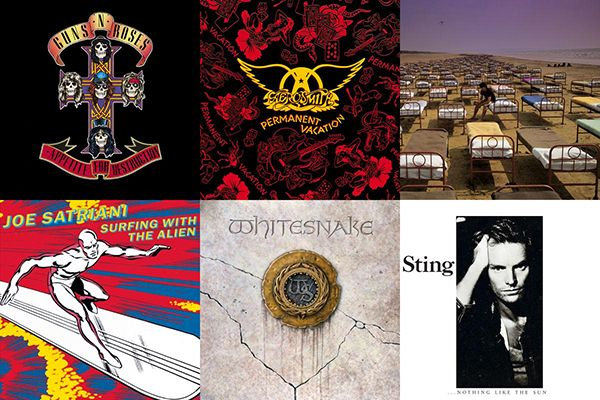
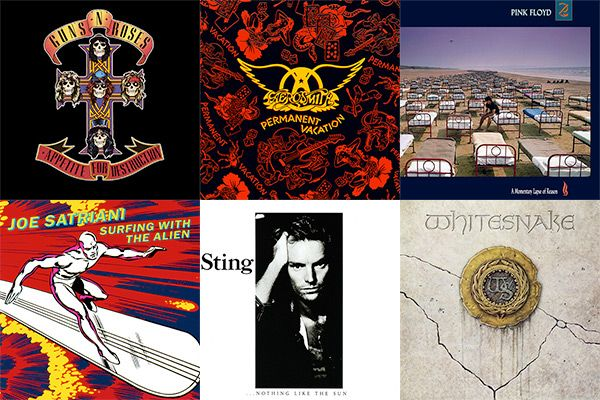
and now 1986

diff --git a/_site/clives-album-of-the-year-1986/index.html b/_site/clives-album-of-the-year-1986/index.html
@@ -176,9 +176,7 @@
 		<div class="post-content">
 
 <!-- BEGIN MARKDOWN OUTPUT -->
-<ol start="1986">
-<li>I was 12, and had yet to develop any taste in music, so as before this is all retroactive. This is also as far back as I’m going with the whole “1 winner and 5 runners-up” thing. My original idea was to try and go right back to the year of my birth, 1974, but I just can’t find enough music that I like from all of those years. What we’ll have after this is a digest format with the best one of the year, and possible an honourable mention or two. So now you know.</li>
-</ol>
+<p>1986. I was 12, and had yet to develop any taste in music, so as before this is all retroactive. This is also as far back as I’m going with the whole “1 winner and 5 runners-up” thing. My original idea was to try and go right back to the year of my birth, 1974, but I just can’t find enough music that I like from all of those years. What we’ll have after this is a digest format with the best one of the year, and possibly an honourable mention or two. So now you know.</p>
 <p>1986 was designated the International Year of Peace by the UN. Good-oh. <a href="https://en.m.wikipedia.org/wiki/Kodak">Kodak</a> were beaten out of the instant camera game by <a href="https://en.m.wikipedia.org/wiki/Polaroid_Corporation">Polaroid</a>, the <a href="https://en.m.wikipedia.org/wiki/Brain_(computer_virus)">first PC virus</a> started to spread, <a href="https://en.m.wikipedia.org/wiki/Voyager_2">Voyager 2</a> met Uranus (<em>snigger</em>), Space Shuttle Challenger <a href="https://en.m.wikipedia.org/wiki/Space_Shuttle_Challenger_disaster">tragically exploded</a> 73 seconds after launching, <a href="https://en.m.wikipedia.org/wiki/Pixar">Pixar</a>, <a href="https://en.m.wikipedia.org/wiki/Halley%27s_Comet">Halley’s Comet</a> popped by, <a href="https://en.m.wikipedia.org/wiki/Mir">Mir</a>, hailstones weighing 1kg killed 92 people in Bangladesh (yes, really), the <a href="https://en.m.wikipedia.org/wiki/Chernobyl_disaster">Chernobyl disaster</a> happened killing over 4000 people and forcing 350000 out of their homes, <a href="https://en.m.wikipedia.org/wiki/Hands_Across_America">Hands Across America</a>, <a href="https://en.m.wikipedia.org/wiki/Diego_Maradona">Maradona</a> and the “Hand of God”, New Zealand decriminalised homosexual sex (between men – lesbian sex was never criminalised in NZ), <a href="https://en.m.wikipedia.org/wiki/Prince_Andrew,_Duke_of_York">Andrew</a> married <a href="https://en.m.wikipedia.org/wiki/Sarah,_Duchess_of_York">Fergie</a>, <a href="https://en.m.wikipedia.org/wiki/The_Phantom_of_the_Opera_(1986_musical)">Phantom</a> opened in London, <a href="https://en.m.wikipedia.org/wiki/M25_motorway">the M25</a> was opened, <a href="https://en.m.wikipedia.org/wiki/The_Simpsons">The Simpsons</a> were created and the first commercial <a href="https://en.m.wikipedia.org/wiki/3D_printer">3D printer</a> was sold.</p>
 <p>Those cashing in their chips and going for a long lie down included <a href="https://en.m.wikipedia.org/wiki/Phil_Lynott">Phil Lynott</a>, <a href="https://en.m.wikipedia.org/wiki/L._Ron_Hubbard">the git behind scientology</a>, <a href="https://en.m.wikipedia.org/wiki/James_Cagney">Jimmy Cagney</a>, <a href="https://en.m.wikipedia.org/wiki/Wallis_Simpson">Wallis Simpson</a>, <a href="https://en.m.wikipedia.org/wiki/Cliff_Burton">Cliff Burton</a> and <a href="https://en.m.wikipedia.org/wiki/Cary_Grant">Cary Grant</a>.</p>
 <p>Arriving presumably not on a one-in-one-out basis were <a href="https://en.m.wikipedia.org/wiki/Matt_Heafy">Matt Heafy</a>, <a href="https://en.m.wikipedia.org/wiki/Jessica_Ennis-Hill">Jessica Ennis-Hill</a>, <a href="https://en.m.wikipedia.org/wiki/Gemma_Arterton">Gemma Arterton</a>, <a href="https://en.m.wikipedia.org/wiki/Ophelia_Lovibond">Ophelia Lovibond</a>, <a href="https://en.m.wikipedia.org/wiki/Charlotte_Church">Charlotte Church</a>, <a href="https://en.m.wikipedia.org/wiki/Lady_Gaga">Lady Gaga</a>, <a href="https://en.m.wikipedia.org/wiki/Robert_Pattinson">R-Patz</a>, <a href="https://en.m.wikipedia.org/wiki/Megan_Fox">Megan Fox</a>, <a href="https://en.m.wikipedia.org/wiki/Rafael_Nadal">Rafael Nadal</a>, <a href="https://en.m.wikipedia.org/wiki/Shia_LaBeouf">Shia LaBeouf</a>, <a href="https://en.m.wikipedia.org/wiki/Lindsay_Lohan">LiLo</a>, <a href="https://en.m.wikipedia.org/wiki/Usain_Bolt">Usain Bolt</a>, <a href="https://en.m.wikipedia.org/wiki/Florence_Welch">Florence Welch</a>, <a href="https://en.m.wikipedia.org/wiki/Emilia_Clarke">Emilia Clarke</a>, <a href="https://en.m.wikipedia.org/wiki/Oscar_Pistorius">Oscar Pistorius</a>, <a href="https://en.m.wikipedia.org/wiki/Amir_Khan_(boxer)">Amir Khan</a>, <a href="https://en.m.wikipedia.org/wiki/Kit_Harington">John Snow (Kit Harington)</a> and <a href="https://en.m.wikipedia.org/wiki/Ellie_Goulding">Ellie Goulding</a>. There were of course many more, but those are the ones I’ve heard of.</p>
@@ -186,15 +184,15 @@
 <p>Some notable omissions that didn’t make the list: <em>Bon Jovi</em> – <strong>Slippery When Wet</strong>, <em>Metallica</em> – <strong>Master of Puppets</strong>, <em>Iron Maiden</em> – <strong>Somewhere in Time</strong>, <em>It Bites</em> – <strong>The Big Lad in the Windmill</strong> and <em>Beastie Boys</em> – <strong>Licensed to Ill</strong>. Those are all good, but imho, these are better…</p>
 <h2 id="honourable-mentions" tabindex="-1">Honourable mentions</h2>
 <h3 id="megadeth---peace-sells%E2%80%A6-but-who%E2%80%99s-buying%3F" tabindex="-1"><a href="https://www.megadeth.com/">Megadeth</a> - <a href="https://www.amazon.co.uk/Peace-Sells-But-Whos-Buying/dp/B000002U9U/">Peace Sells… But Who’s Buying?</a></h3>
-<p>My metal awakening was still a few years away when this came out, but looking back it’s an absolute classic and a shortlist must-have. Worth the price of admission several times over for the title track alone, yet some may say “How can you include this and not <strong>Master of Puppets</strong>? Are you a mental?” The simple fact is I prefer <em>Megadeth</em> to <em>Metallica</em> – always have. I’ll give you that there are a couple of missteps on this album (WTF is “I Ain’t Superstitious” doing on here?) but when it’s good, it’s impeccable. <strong>Top track:</strong> “Peace Sells”</p>
+<p><img src="/public/images/2025/02/peace-sells.jpg" alt="Megadeth – Peace Sells… But Who’s Buying?" class="aoty aoty-mention"> My metal awakening was still a few years away when this came out, but looking back it’s an absolute classic and a shortlist must-have. Worth the price of admission several times over for the title track alone, yet some may say “How can you include this and not <strong>Master of Puppets</strong>? Are you a mental?” The simple fact is I prefer <em>Megadeth</em> to <em>Metallica</em> – always have. I’ll give you that there are a couple of missteps on this album (WTF is “I Ain’t Superstitious” doing on here?) but when it’s good, it’s impeccable. <strong>Top track:</strong> “Peace Sells”</p>
 <h3 id="queen---a-kind-of-magic" tabindex="-1"><a href="http://www.queenonline.com/">Queen</a> - <a href="https://www.amazon.co.uk/Kind-Magic-2011-Remaster/dp/B005HAPP58/">A Kind of Magic</a></h3>
-<p>I was even in the <em>Queen</em> fan club for a few years. At the time I had no idea what AIDS was, or what gay really was, and had no idea that Freddie was not that long for this world. I just loved their music, or at least what I had of it. It’s only recently I’ve gone back to the early proggy albums and discovered a whole bunch of weird, but then that was the 70s for you. This, the unofficial soundtrack to one of my favourite 80s films “Highlander”, has a couple of mawkish moments but again – when it’s good, it’s absolutely amazing. See “One Vision”, the title track, and the splendid “Gimme the Prize” for details. (I know his name.) <strong>Top track:</strong> “One Vision”</p>
+<p><img src="/public/images/2025/02/magic.jpg" alt="Queen – A Kind of Magic" class="aoty aoty-mention"> I was even in the <em>Queen</em> fan club for a few years. At the time I had no idea what AIDS was, or what gay really was, and had no idea that Freddie was not that long for this world. I just loved their music, or at least what I had of it. It’s only recently I’ve gone back to the early proggy albums and discovered a whole bunch of weird, but then that was the 70s for you. This, the unofficial soundtrack to one of my favourite 80s films “Highlander”, has a couple of mawkish moments but again – when it’s good, it’s absolutely amazing. See “One Vision”, the title track, and the splendid “Gimme the Prize” for details. (I know his name.) <strong>Top track:</strong> “One Vision”</p>
 <h3 id="david-lee-roth---eat-'em-and-smile" tabindex="-1"><a href="https://davidleeroth.com/">David Lee Roth</a> - <a href="https://www.amazon.co.uk/Eat-Smile-David-Lee-Roth/dp/B004X16Q8M/">Eat 'Em and Smile</a></h3>
-<p>When <em>DLR</em> quit <em>Van Halen</em>, the rock world must have wondered what the hell he – or they – were going to do next. Well, Diamond Dave recruited the hottest musicians available (Steve Vai, Billy Sheehan, Gregg Bissonette, Brett Tuggle) and punted out a solo album that combined Dave’s trademark lounge schtick with some of the most blistering virtuoso rock tunes ever made, still to this day. Indispensable, though hardly flawless. <strong>Top track:</strong> “Ladies’ Nite in Buffalo?”</p>
+<p><img src="/public/images/2025/02/dlr-eeas.jpg" alt="David Lee Roth – Eat 'Em and Smile" class="aoty aoty-mention"> When <em>DLR</em> quit <em>Van Halen</em>, the rock world must have wondered what the hell he – or they – were going to do next. Well, Diamond Dave recruited the hottest musicians available (Steve Vai, Billy Sheehan, Gregg Bissonette, Brett Tuggle) and punted out a solo album that combined Dave’s trademark lounge schtick with some of the most blistering virtuoso rock tunes ever made, still to this day. Indispensable, though hardly flawless. <strong>Top track:</strong> “Ladies’ Nite in Buffalo?”</p>
 <h3 id="paul-simon---graceland" tabindex="-1"><a href="http://www.paulsimon.com/">Paul Simon</a> - <a href="https://www.amazon.co.uk/Graceland-Paul-Simon/dp/B0085EDJTC/">Graceland</a></h3>
-<p>This was the first album I ever owned that wasn’t a kids album like Mr. Men or something. My late Grandma bought me the tape of it for Christmas or birthday, probably in 1987, and it went into my tape player and hardly came out for months. I still love it. Thanks, Grandma. <strong>Top track:</strong> “The Boy in the Bubble”</p>
+<p><img src="/public/images/2025/02/ps-g.jpg" alt="Paul Simon – Graceland" class="aoty aoty-mention"> This was the first album I ever owned that wasn’t a kids album like Mr. Men or something. My late Grandma bought me the tape of it for Christmas or birthday, probably in 1987, and it went into my tape player and hardly came out for months. I still love it. Thanks, Grandma. <strong>Top track:</strong> “The Boy in the Bubble”</p>
 <h3 id="van-halen---5150" tabindex="-1"><a href="http://www.van-halen.com/">Van Halen</a> - <a href="https://www.amazon.co.uk/5150-Van-Halen/dp/B002CNY2YS/">5150</a></h3>
-<p>So we know what Roth did when he quit <em>Van Halen</em>, but what did the rest of his erstwhile band do? They recruited a new singer and kept on trucking, that’s what. This was Sammy Hagar’s first album with VH and it was one of the first two rock/metal albums lent to me as part of my metal education by my best friend at the time, Nick Redfearn (the other was <strong>Eliminator</strong> by <em>ZZ Top</em>). Having never heard VH with Roth at the time, I was spared the inevitable comparisons and potential disappointment that a lead singer swap can engender, and loved it from the get go. Still do. (The following album <strong>OU812</strong> is a total crock, though.) <strong>Top track:</strong> “Good Enough”</p>
+<p><img src="/public/images/2025/02/5150.jpg" alt="Van Halen – 5150" class="aoty aoty-mention"> So we know what Roth did when he quit <em>Van Halen</em>, but what did the rest of his erstwhile band do? They recruited a new singer and kept on trucking, that’s what. This was Sammy Hagar’s first album with VH and it was one of the first two rock/metal albums lent to me as part of my metal education by my best friend at the time, Nick Redfearn (the other was <strong>Eliminator</strong> by <em>ZZ Top</em>). Having never heard VH with Roth at the time, I was spared the inevitable comparisons and potential disappointment that a lead singer swap can engender, and loved it from the get go. Still do. (The following album <strong>OU812</strong> is a total crock, though.) <strong>Top track:</strong> “Good Enough”</p>
 <h2 id="and-the-winner-is%E2%80%A6" tabindex="-1">And the winner is…</h2>
 <h3 id="peter-gabriel---so" tabindex="-1"><a href="http://www.petergabriel.com/">Peter Gabriel</a> - <a href="https://www.amazon.co.uk/So-Remastered-Peter-Gabriel/dp/B00RK6SDG0/">So</a></h3>
 <p><img src="/public/images/2017/11/MI0003431369.jpg" alt="Peter Gabriel - So" class="aoty aoty-winner"></p>
@@ -204,7 +202,7 @@
 <p><strong>Top tracks:</strong> “Mercy Street”, “Red Rain”, “Don’t Give Up”</p>
 <h2 id="turkey-of-the-year" tabindex="-1">Turkey of the year</h2>
 <h3 id="poison---look-what-the-cat-dragged-in" tabindex="-1"><a href="https://www.poisonofficial.com/">Poison</a> - <a href="https://www.amazon.co.uk/Look-What-Cat-Dragged-Anniversary/dp/B001ILT3SK">Look What the Cat Dragged In</a></h3>
-<p>Oh good god.</p>
+<p><img src="/public/images/2025/02/jesus-christ-look-at-those-arseholes.jpg" alt="Poison – Look What the Cat Dragged In" class="aoty aoty-mention aoty-turkey"> Oh good god.</p>
 
 <!-- END MARKDOWN OUTPUT -->
 

diff --git a/_site/clives-album-of-the-year-1987/index.html b/_site/clives-album-of-the-year-1987/index.html
@@ -184,29 +184,29 @@
 <p>Retroactively, then…</p>
 <h2 id="honourable-mentions" tabindex="-1">Honourable mentions</h2>
 <h3 id="aerosmith---permanent-vacation" tabindex="-1"><a href="http://www.aerosmith.com/">Aerosmith</a> - <a href="https://www.amazon.co.uk/Permanent-Vacation-Aerosmith/dp/B000026E3A/">Permanent Vacation</a></h3>
-<p>I am familiar with precisely none of <em>Aerosmith</em>’s pre-1987 work, a situation which if I’m honest is unlikely to change any time soon. There are a couple of tracks on this album I’m likely to skip, but the good ones are <strong>really</strong> good. <strong>Top track:</strong> “Dude (Looks Like a Lady)”</p>
+<p><img src="/public/images/2025/02/permvac.jpg" alt="Aerosmith – Permanent Vacation" class="aoty aoty-mention"> I am familiar with precisely none of <em>Aerosmith</em>’s pre-1987 work, a situation which if I’m honest is unlikely to change any time soon. There are a couple of tracks on this album I’m likely to skip, but the good ones are <strong>really</strong> good. <strong>Top track:</strong> “Dude (Looks Like a Lady)”</p>
 <h3 id="pink-floyd---a-momentary-lapse-of-reason" tabindex="-1"><a href="http://www.pinkfloyd.com/">Pink Floyd</a> - <a href="https://www.amazon.co.uk/Momentary-Lapse-Reason-Remastered-Version/dp/B005NNZJW8/">A Momentary Lapse of Reason</a></h3>
-<p>I know, right? I’ve never been the most rabid <em>Floyd</em> fan alive (though I did live with one for some time), but I’ve always had time and respect for them. In fairness I haven’t gone back and properly engaged with the Roger Waters era (except <strong>The Wall</strong> obviously – that’s a masterpiece) and I’ve <em>certainly</em> never even tried with the Syd Barrett era, so I’ve really only been a Gilmour guy. I wasn’t listening to <em>PF</em> in 1987, but have appreciated them greatly in later years, and this album while not one of their most essential is still very good. <strong>Top track:</strong> “Learning to Fly”</p>
+<p><img src="/public/images/2025/02/lapse.jpg" alt="Pink Floyd – A Momentary Lapse of Reason" class="aoty aoty-mention"> I know, right? I’ve never been the most rabid <em>Floyd</em> fan alive (though I did live with one for some time), but I’ve always had time and respect for them. In fairness I haven’t gone back and properly engaged with the Roger Waters era (except <strong>The Wall</strong> obviously – that’s a masterpiece) and I’ve <em>certainly</em> never even tried with the Syd Barrett era, so I’ve really only been a Gilmour guy. I wasn’t listening to <em>PF</em> in 1987, but have appreciated them greatly in later years, and this album while not one of their most essential is still very good. <strong>Top track:</strong> “Learning to Fly”</p>
 <h3 id="joe-satriani---surfing-with-the-alien" tabindex="-1"><a href="http://www.satriani.com/">Joe Satriani</a> - <a href="https://www.amazon.co.uk/Surfing-Alien-Joe-Satriani-x/dp/B000025N63/">Surfing With the Alien</a></h3>
-<p>In any other year, blah blah blah. But wow, it is hard to overstate the importance of this album to rock guitar. <em>Satriani</em> had self produced and released a weird home-grown EP in 1984 and then released his label debut <strong>Not of This Earth</strong> in 1986 to limited acclaim, but when <strong>Surfing</strong> came out in 1987 it changed the game completely. This took instrumental guitar out of the realms of “Apache” and “Telstar” and sent it soaring into the space age with its stellar technique, melodic sensibility, and finely honed production. Even moreso than hearing <em>Van Halen</em> for the first time, hearing this was what made me want to play real rock guitar. Thanks, Joe. <strong>Top track:</strong> “Circles”</p>
+<p><img src="/public/images/2025/02/surfing.jpg" alt="Joe Satriani – Surfing With the Alien" class="aoty aoty-mention"> In any other year, blah blah blah. But wow, it is hard to overstate the importance of this album to rock guitar. <em>Satriani</em> had self produced and released a weird home-grown EP in 1984 and then released his label debut <strong>Not of This Earth</strong> in 1986 to limited acclaim, but when <strong>Surfing</strong> came out in 1987 it changed the game completely. This took instrumental guitar out of the realms of “Apache” and “Telstar” and sent it soaring into the space age with its stellar technique, melodic sensibility, and finely honed production. Even moreso than hearing <em>Van Halen</em> for the first time, hearing this was what made me want to play real rock guitar. Thanks, Joe. <strong>Top track:</strong> “Circles”</p>
 <h3 id="sting---nothing-like-the-sun" tabindex="-1"><a href="http://www.sting.com/">Sting</a> - <a href="https://www.amazon.co.uk/Nothing-Like-Sun-Sting/dp/B000026H0L/">Nothing Like the Sun</a></h3>
-<p>Yes, I like Sting (up to a point, and <strong>Mercury Falling</strong> was that point – after that, no ta) and while I didn’t get into this album until relatively recently it does contain some of his crackers, most notably “Englishman in New York” which I think I was aware of and liked even in 1987, but see also “They Dance Alone”, “Fragile”, “Straight to My Heart” and “Sister Moon”. Hell, I even quite like his cover of “Little Wing”. <strong>Top track:</strong> “Englishman in New York”</p>
+<p><img src="/public/images/2025/02/nlts.jpg" alt="Sting – Nothing Like the Sun" class="aoty aoty-mention"> Yes, I like Sting (up to a point, and <strong>Mercury Falling</strong> was that point – after that, no ta) and while I didn’t get into this album until relatively recently it does contain some of his crackers, most notably “Englishman in New York” which I think I was aware of and liked even in 1987, but see also “They Dance Alone”, “Fragile”, “Straight to My Heart” and “Sister Moon”. Hell, I even quite like his cover of “Little Wing”. <strong>Top track:</strong> “Englishman in New York”</p>
 <h3 id="whitesnake---whitesnake" tabindex="-1"><a href="http://www.whitesnake.com/">Whitesnake</a> - <a href="https://www.amazon.co.uk/1987-Whitesnake/dp/B000026BDY/">Whitesnake</a></h3>
-<p>The <em>’Snake</em> have had many incarnations, but predictably it’s the hard rock version I dig. This album features the incomparable John Sykes on guitar and while some of the tracks don’t quite gel for me, it’s a belter overall. <strong>Top track:</strong> “Still of the Night”</p>
+<p><img src="/public/images/2025/02/1987.jpg" alt="Whitesnake – Whitesnake" class="aoty aoty-mention"> The <em>’Snake</em> have had many incarnations, but predictably it’s the hard rock version I dig. This album features the incomparable John Sykes on guitar and while some of the tracks don’t quite gel for me, it’s a belter overall. <strong>Top track:</strong> “Still of the Night”</p>
 <h2 id="and-the-winner-is%E2%80%A6" tabindex="-1">And the winner is…</h2>
 <h3 id="guns-n%E2%80%99-roses---appetite-for-destruction" tabindex="-1"><a href="http://www.gunsnroses.com/">Guns N’ Roses</a> - <a href="https://www.amazon.co.uk/Appetite-Destruction-Guns-N-Roses/dp/B000026E3O/">Appetite For Destruction</a></h3>
-<p><img src="/public/images/2017/05/afd.jpg" alt="Guns N’ Roses - Appetite For Destruction" class="aoty aoty-winner"></p>
+<p><img src="/public/images/2025/02/afd.jpg" alt="Guns N’ Roses - Appetite For Destruction" class="aoty aoty-winner"></p>
 <p>In some ways, this entire series has been leading up to this point. (I’m certainly not going much further back than '87… perhaps another year or two if I can find enough good stuff…)</p>
 <p>It is, as should come as little surprise to most, my favourite album of all time. Every single track on it is so far superior to any track on almost any other album of its time <em>or since</em> that comparison between <strong>AFD</strong> and anything else is like comparing the performance of your favourite Lego airplane to an actual <a href="https://en.wikipedia.org/wiki/Lockheed_SR-71_Blackbird">Lockheed SR-71 Blackbird</a>.</p>
 <p>If you’ve read the books, and you should, then reasons for this are plain – five talented guys and years of hard work produced twelve perfect songs. Maybe Steven Adler couldn’t keep it together after this point, but during the recording of <strong>AFD</strong> he was right on the money. Slash and Axl, yeah yeah, we all know all about them. Of course they’re brilliant. At the time no-one could touch them (Roth, Michaels and Neil, see me after class), and whatever you may think about their recent output, they’re still world class musicians. 30 years ago, they were simply Best In Show. Izzy Stradlin was the rock (heh) the band nailed itself to (usually the drummer’s job, of course, but Adler was perhaps more stone(d) than rock.) Stradlin was the co-founder of <em>GN’R</em> (with Axl) and also if I recall correctly the core songwriter, and generally the glue that held the band together even when things got crazy (again, read the books – things got crazier than most humans would believe).</p>
-<p>But the real hero of this album is Duff McKagan. That man does not put a single note wrong here, and in many cases it’s what he’s doing that makes the song interesting. Any bassists reading this who’ve learned (properly learned, mind you) more than a couple of tracks off <strong>AFD</strong> will attest that Duff doesn’t just hit the roots and play it safe, he’s all over the place. He gets more damned mileage out of those 4 strings than most of your modern djentmeisters get out of their sub-sonic nonsense. Honestly, go and stick on “It’s So Easy” right now and listen to the bass throughout. Wonderful stuff.</p>
+<p>But the real hero of this album is Duff McKagan. That man does not put a single note wrong here, and in many cases it’s what he’s doing that makes the song so interesting. Any bassists reading this who’ve learned (properly learned, mind you) more than a couple of tracks off <strong>AFD</strong> will attest that Duff doesn’t just hit the roots and play it safe, he’s all over the place. He gets more damned mileage out of those 4 strings than most of your modern djentmeisters get out of their sub-sonic nonsense. Honestly, go and stick on “It’s So Easy” right now and listen to the bass throughout. Wonderful stuff.</p>
 <p>Of course, we’ve all heard cover bands murder a 9 minute version of “Paradise City”, we’ve all got a little tired of hearing “Welcome to the Jungle” on US cop shows, we’ve perhaps even decided we don’t need to hear “Sweet Child O’ Mine”, “Nightrain” or “Mr. Brownstone” even one more time, but stop. Listen to them properly. If you play, learn them. Now compare them to literally anything else in the genre. This is the best that this particular thing has ever been done.</p>
 <p>So yeah, best debut album ever? Best rock album ever? Best… album ever? For me, yes. In 30 years a handful have come close to approaching its raw, louche, electric brilliance, but none have equalled it.</p>
 <p>Yet.</p>
 <p><strong>Top tracks:</strong> “My Michelle”, “Think About You”, “Rocket Queen”</p>
 <h2 id="turkey-of-the-year" tabindex="-1">Turkey of the year</h2>
 <h3 id="m%C3%B6tley-cr%C3%BCe---girls-girls-girls" tabindex="-1"><a href="http://www.motley.com/">Mötley Crüe</a> - <a href="https://www.amazon.co.uk/Girls-M%C3%B6tley-Cr%C3%BCe/dp/B005SN9S02/">Girls Girls Girls</a></h3>
-<p>Meanwhile… <em>le sigh</em>.</p>
+<p><img src="/public/images/2025/02/ggg-jfc.jpg" alt="Mötley Crüe – Girls Girls Girls" class="aoty aoty-mention aoty-turkey"> Meanwhile… <em>le sigh</em>.</p>
 
 <!-- END MARKDOWN OUTPUT -->
 

diff --git a/src/posts/2017/clives-album-of-the-year-1986.md b/src/posts/2017/clives-album-of-the-year-1986.md
@@ -9,7 +9,7 @@ excerpt: 1986 was designated the International Year of Peace by the UN. Good-oh.
 ghost_header_image: 1986aoty.jpg
 ---
 
-1986. I was 12, and had yet to develop any taste in music, so as before this is all retroactive. This is also as far back as I’m going with the whole “1 winner and 5 runners-up” thing. My original idea was to try and go right back to the year of my birth, 1974, but I just can’t find enough music that I like from all of those years. What we’ll have after this is a digest format with the best one of the year, and possible an honourable mention or two. So now you know.
+1986\. I was 12, and had yet to develop any taste in music, so as before this is all retroactive. This is also as far back as I’m going with the whole “1 winner and 5 runners-up” thing. My original idea was to try and go right back to the year of my birth, 1974, but I just can’t find enough music that I like from all of those years. What we’ll have after this is a digest format with the best one of the year, and possibly an honourable mention or two. So now you know.
 
 1986 was designated the International Year of Peace by the UN. Good-oh. [Kodak](https://en.m.wikipedia.org/wiki/Kodak) were beaten out of the instant camera game by [Polaroid](https://en.m.wikipedia.org/wiki/Polaroid_Corporation), the [first PC virus](https://en.m.wikipedia.org/wiki/Brain_(computer_virus)) started to spread, [Voyager 2](https://en.m.wikipedia.org/wiki/Voyager_2) met Uranus (*snigger*), Space Shuttle Challenger [tragically exploded](https://en.m.wikipedia.org/wiki/Space_Shuttle_Challenger_disaster) 73 seconds after launching, [Pixar](https://en.m.wikipedia.org/wiki/Pixar), [Halley’s Comet](https://en.m.wikipedia.org/wiki/Halley%27s_Comet) popped by, [Mir](https://en.m.wikipedia.org/wiki/Mir), hailstones weighing 1kg killed 92 people in Bangladesh (yes, really), the [Chernobyl disaster](https://en.m.wikipedia.org/wiki/Chernobyl_disaster) happened killing over 4000 people and forcing 350000 out of their homes, [Hands Across America](https://en.m.wikipedia.org/wiki/Hands_Across_America), [Maradona](https://en.m.wikipedia.org/wiki/Diego_Maradona) and the “Hand of God”, New Zealand decriminalised homosexual sex (between men – lesbian sex was never criminalised in NZ), [Andrew](https://en.m.wikipedia.org/wiki/Prince_Andrew,_Duke_of_York) married [Fergie](https://en.m.wikipedia.org/wiki/Sarah,_Duchess_of_York), [Phantom](https://en.m.wikipedia.org/wiki/The_Phantom_of_the_Opera_(1986_musical)) opened in London, [the M25](https://en.m.wikipedia.org/wiki/M25_motorway) was opened, [The Simpsons](https://en.m.wikipedia.org/wiki/The_Simpsons) were created and the first commercial [3D printer](https://en.m.wikipedia.org/wiki/3D_printer) was sold.
 
@@ -25,23 +25,23 @@ Some notable omissions that didn’t make the list: *Bon Jovi* – **Slippery Wh
 
 ### [Megadeth](https://www.megadeth.com/) - [Peace Sells… But Who’s Buying?](https://www.amazon.co.uk/Peace-Sells-But-Whos-Buying/dp/B000002U9U/)
 
-My metal awakening was still a few years away when this came out, but looking back it’s an absolute classic and a shortlist must-have. Worth the price of admission several times over for the title track alone, yet some may say “How can you include this and not **Master of Puppets**? Are you a mental?” The simple fact is I prefer *Megadeth* to *Metallica* – always have. I’ll give you that there are a couple of missteps on this album (WTF is “I Ain’t Superstitious” doing on here?) but when it’s good, it’s impeccable. **Top track:** “Peace Sells”
+![Megadeth – Peace Sells… But Who’s Buying?](/public/images/2025/02/peace-sells.jpg){.aoty .aoty-mention} My metal awakening was still a few years away when this came out, but looking back it’s an absolute classic and a shortlist must-have. Worth the price of admission several times over for the title track alone, yet some may say “How can you include this and not **Master of Puppets**? Are you a mental?” The simple fact is I prefer *Megadeth* to *Metallica* – always have. I’ll give you that there are a couple of missteps on this album (WTF is “I Ain’t Superstitious” doing on here?) but when it’s good, it’s impeccable. **Top track:** “Peace Sells”
 
 ### [Queen](http://www.queenonline.com/) - [A Kind of Magic](https://www.amazon.co.uk/Kind-Magic-2011-Remaster/dp/B005HAPP58/)
 
-I was even in the *Queen* fan club for a few years. At the time I had no idea what AIDS was, or what gay really was, and had no idea that Freddie was not that long for this world. I just loved their music, or at least what I had of it. It’s only recently I’ve gone back to the early proggy albums and discovered a whole bunch of weird, but then that was the 70s for you. This, the unofficial soundtrack to one of my favourite 80s films “Highlander”, has a couple of mawkish moments but again – when it’s good, it’s absolutely amazing. See “One Vision”, the title track, and the splendid “Gimme the Prize” for details. (I know his name.) **Top track:** “One Vision”
+![Queen – A Kind of Magic](/public/images/2025/02/magic.jpg){.aoty .aoty-mention} I was even in the *Queen* fan club for a few years. At the time I had no idea what AIDS was, or what gay really was, and had no idea that Freddie was not that long for this world. I just loved their music, or at least what I had of it. It’s only recently I’ve gone back to the early proggy albums and discovered a whole bunch of weird, but then that was the 70s for you. This, the unofficial soundtrack to one of my favourite 80s films “Highlander”, has a couple of mawkish moments but again – when it’s good, it’s absolutely amazing. See “One Vision”, the title track, and the splendid “Gimme the Prize” for details. (I know his name.) **Top track:** “One Vision”
 
 ### [David Lee Roth](https://davidleeroth.com/) - [Eat 'Em and Smile](https://www.amazon.co.uk/Eat-Smile-David-Lee-Roth/dp/B004X16Q8M/)
 
-When *DLR* quit *Van Halen*, the rock world must have wondered what the hell he – or they – were going to do next. Well, Diamond Dave recruited the hottest musicians available (Steve Vai, Billy Sheehan, Gregg Bissonette, Brett Tuggle) and punted out a solo album that combined Dave’s trademark lounge schtick with some of the most blistering virtuoso rock tunes ever made, still to this day. Indispensable, though hardly flawless. **Top track:** “Ladies' Nite in Buffalo?”
+![David Lee Roth – Eat 'Em and Smile](/public/images/2025/02/dlr-eeas.jpg){.aoty .aoty-mention} When *DLR* quit *Van Halen*, the rock world must have wondered what the hell he – or they – were going to do next. Well, Diamond Dave recruited the hottest musicians available (Steve Vai, Billy Sheehan, Gregg Bissonette, Brett Tuggle) and punted out a solo album that combined Dave’s trademark lounge schtick with some of the most blistering virtuoso rock tunes ever made, still to this day. Indispensable, though hardly flawless. **Top track:** “Ladies' Nite in Buffalo?”
 
 ### [Paul Simon](http://www.paulsimon.com/) - [Graceland](https://www.amazon.co.uk/Graceland-Paul-Simon/dp/B0085EDJTC/)
 
-This was the first album I ever owned that wasn’t a kids album like Mr. Men or something. My late Grandma bought me the tape of it for Christmas or birthday, probably in 1987, and it went into my tape player and hardly came out for months. I still love it. Thanks, Grandma. **Top track:** “The Boy in the Bubble”
+![Paul Simon – Graceland](/public/images/2025/02/ps-g.jpg){.aoty .aoty-mention} This was the first album I ever owned that wasn’t a kids album like Mr. Men or something. My late Grandma bought me the tape of it for Christmas or birthday, probably in 1987, and it went into my tape player and hardly came out for months. I still love it. Thanks, Grandma. **Top track:** “The Boy in the Bubble”
 
 ### [Van Halen](http://www.van-halen.com/) - [5150](https://www.amazon.co.uk/5150-Van-Halen/dp/B002CNY2YS/)
 
-So we know what Roth did when he quit *Van Halen*, but what did the rest of his erstwhile band do? They recruited a new singer and kept on trucking, that’s what. This was Sammy Hagar’s first album with VH and it was one of the first two rock/metal albums lent to me as part of my metal education by my best friend at the time, Nick Redfearn (the other was **Eliminator** by *ZZ Top*). Having never heard VH with Roth at the time, I was spared the inevitable comparisons and potential disappointment that a lead singer swap can engender, and loved it from the get go. Still do. (The following album **OU812** is a total crock, though.) **Top track:** “Good Enough”
+![Van Halen – 5150](/public/images/2025/02/5150.jpg){.aoty .aoty-mention} So we know what Roth did when he quit *Van Halen*, but what did the rest of his erstwhile band do? They recruited a new singer and kept on trucking, that’s what. This was Sammy Hagar’s first album with VH and it was one of the first two rock/metal albums lent to me as part of my metal education by my best friend at the time, Nick Redfearn (the other was **Eliminator** by *ZZ Top*). Having never heard VH with Roth at the time, I was spared the inevitable comparisons and potential disappointment that a lead singer swap can engender, and loved it from the get go. Still do. (The following album **OU812** is a total crock, though.) **Top track:** “Good Enough”
 
 ## And the winner is…
 
@@ -61,4 +61,4 @@ A pop classic, 9 well-crafted songs, and a voice with a range and depth of emoti
 
 ### [Poison](https://www.poisonofficial.com/) - [Look What the Cat Dragged In](https://www.amazon.co.uk/Look-What-Cat-Dragged-Anniversary/dp/B001ILT3SK)
 
-Oh good god.
+![Poison – Look What the Cat Dragged In](/public/images/2025/02/jesus-christ-look-at-those-arseholes.jpg){.aoty .aoty-mention .aoty-turkey} Oh good god.

diff --git a/src/posts/2017/clives-album-of-the-year-1987.md b/src/posts/2017/clives-album-of-the-year-1987.md
@@ -25,29 +25,29 @@ Retroactively, then…
 
 ### [Aerosmith](http://www.aerosmith.com/) - [Permanent Vacation](https://www.amazon.co.uk/Permanent-Vacation-Aerosmith/dp/B000026E3A/)
 
-I am familiar with precisely none of *Aerosmith*’s pre-1987 work, a situation which if I’m honest is unlikely to change any time soon. There are a couple of tracks on this album I’m likely to skip, but the good ones are **really** good. **Top track:** “Dude (Looks Like a Lady)”
+![Aerosmith – Permanent Vacation](/public/images/2025/02/permvac.jpg){.aoty .aoty-mention} I am familiar with precisely none of *Aerosmith*’s pre-1987 work, a situation which if I’m honest is unlikely to change any time soon. There are a couple of tracks on this album I’m likely to skip, but the good ones are **really** good. **Top track:** “Dude (Looks Like a Lady)”
 
 ### [Pink Floyd](http://www.pinkfloyd.com/) - [A Momentary Lapse of Reason](https://www.amazon.co.uk/Momentary-Lapse-Reason-Remastered-Version/dp/B005NNZJW8/)
 
-I know, right? I’ve never been the most rabid *Floyd* fan alive (though I did live with one for some time), but I’ve always had time and respect for them. In fairness I haven’t gone back and properly engaged with the Roger Waters era (except **The Wall** obviously – that’s a masterpiece) and I’ve *certainly* never even tried with the Syd Barrett era, so I’ve really only been a Gilmour guy. I wasn't listening to *PF* in 1987, but have appreciated them greatly in later years, and this album while not one of their most essential is still very good. **Top track:** “Learning to Fly”
+![Pink Floyd – A Momentary Lapse of Reason](/public/images/2025/02/lapse.jpg){.aoty .aoty-mention} I know, right? I’ve never been the most rabid *Floyd* fan alive (though I did live with one for some time), but I’ve always had time and respect for them. In fairness I haven’t gone back and properly engaged with the Roger Waters era (except **The Wall** obviously – that’s a masterpiece) and I’ve *certainly* never even tried with the Syd Barrett era, so I’ve really only been a Gilmour guy. I wasn't listening to *PF* in 1987, but have appreciated them greatly in later years, and this album while not one of their most essential is still very good. **Top track:** “Learning to Fly”
 
 ### [Joe Satriani](http://www.satriani.com/) - [Surfing With the Alien](https://www.amazon.co.uk/Surfing-Alien-Joe-Satriani-x/dp/B000025N63/)
 
-In any other year, blah blah blah. But wow, it is hard to overstate the importance of this album to rock guitar. *Satriani* had self produced and released a weird home-grown EP in 1984 and then released his label debut **Not of This Earth** in 1986 to limited acclaim, but when **Surfing** came out in 1987 it changed the game completely. This took instrumental guitar out of the realms of "Apache" and "Telstar" and sent it soaring into the space age with its stellar technique, melodic sensibility, and finely honed production. Even moreso than hearing *Van Halen* for the first time, hearing this was what made me want to play real rock guitar. Thanks, Joe. **Top track:** “Circles”
+![Joe Satriani – Surfing With the Alien](/public/images/2025/02/surfing.jpg){.aoty .aoty-mention} In any other year, blah blah blah. But wow, it is hard to overstate the importance of this album to rock guitar. *Satriani* had self produced and released a weird home-grown EP in 1984 and then released his label debut **Not of This Earth** in 1986 to limited acclaim, but when **Surfing** came out in 1987 it changed the game completely. This took instrumental guitar out of the realms of "Apache" and "Telstar" and sent it soaring into the space age with its stellar technique, melodic sensibility, and finely honed production. Even moreso than hearing *Van Halen* for the first time, hearing this was what made me want to play real rock guitar. Thanks, Joe. **Top track:** “Circles”
 
 ### [Sting](http://www.sting.com/) - [Nothing Like the Sun](https://www.amazon.co.uk/Nothing-Like-Sun-Sting/dp/B000026H0L/)
 
-Yes, I like Sting (up to a point, and **Mercury Falling** was that point – after that, no ta) and while I didn't get into this album until relatively recently it does contain some of his crackers, most notably "Englishman in New York" which I think I was aware of and liked even in 1987, but see also "They Dance Alone", "Fragile", "Straight to My Heart" and "Sister Moon". Hell, I even quite like his cover of "Little Wing". **Top track:** “Englishman in New York”
+![Sting – Nothing Like the Sun](/public/images/2025/02/nlts.jpg){.aoty .aoty-mention} Yes, I like Sting (up to a point, and **Mercury Falling** was that point – after that, no ta) and while I didn't get into this album until relatively recently it does contain some of his crackers, most notably "Englishman in New York" which I think I was aware of and liked even in 1987, but see also "They Dance Alone", "Fragile", "Straight to My Heart" and "Sister Moon". Hell, I even quite like his cover of "Little Wing". **Top track:** “Englishman in New York”
 
 ### [Whitesnake](http://www.whitesnake.com/) - [Whitesnake](https://www.amazon.co.uk/1987-Whitesnake/dp/B000026BDY/)
 
-The *’Snake* have had many incarnations, but predictably it’s the hard rock version I dig. This album features the incomparable John Sykes on guitar and while some of the tracks don’t quite gel for me, it’s a belter overall. **Top track:** “Still of the Night”
+![Whitesnake – Whitesnake](/public/images/2025/02/1987.jpg){.aoty .aoty-mention} The *’Snake* have had many incarnations, but predictably it’s the hard rock version I dig. This album features the incomparable John Sykes on guitar and while some of the tracks don’t quite gel for me, it’s a belter overall. **Top track:** “Still of the Night”
 
 ## And the winner is…
 
 ### [Guns N’ Roses](http://www.gunsnroses.com/) - [Appetite For Destruction](https://www.amazon.co.uk/Appetite-Destruction-Guns-N-Roses/dp/B000026E3O/)
 
-![Guns N’ Roses - Appetite For Destruction](/public/images/2017/05/afd.jpg){.aoty .aoty-winner}
+![Guns N’ Roses - Appetite For Destruction](/public/images/2025/02/afd.jpg){.aoty .aoty-winner}
 
 In some ways, this entire series has been leading up to this point. (I'm certainly not going much further back than '87… perhaps another year or two if I can find enough good stuff…)
 
@@ -55,7 +55,7 @@ It is, as should come as little surprise to most, my favourite album of all time
 
 If you've read the books, and you should, then reasons for this are plain – five talented guys and years of hard work produced twelve perfect songs. Maybe Steven Adler couldn't keep it together after this point, but during the recording of **AFD** he was right on the money. Slash and Axl, yeah yeah, we all know all about them. Of course they're brilliant. At the time no-one could touch them (Roth, Michaels and Neil, see me after class), and whatever you may think about their recent output, they're still world class musicians. 30 years ago, they were simply Best In Show. Izzy Stradlin was the rock (heh) the band nailed itself to (usually the drummer's job, of course, but Adler was perhaps more stone(d) than rock.) Stradlin was the co-founder of *GN'R* (with Axl) and also if I recall correctly the core songwriter, and generally the glue that held the band together even when things got crazy (again, read the books – things got crazier than most humans would believe).
 
-But the real hero of this album is Duff McKagan. That man does not put a single note wrong here, and in many cases it's what he's doing that makes the song interesting. Any bassists reading this who've learned (properly learned, mind you) more than a couple of tracks off **AFD** will attest that Duff doesn't just hit the roots and play it safe, he's all over the place. He gets more damned mileage out of those 4 strings than most of your modern djentmeisters get out of their sub-sonic nonsense. Honestly, go and stick on "It's So Easy" right now and listen to the bass throughout. Wonderful stuff.
+But the real hero of this album is Duff McKagan. That man does not put a single note wrong here, and in many cases it's what he's doing that makes the song so interesting. Any bassists reading this who've learned (properly learned, mind you) more than a couple of tracks off **AFD** will attest that Duff doesn't just hit the roots and play it safe, he's all over the place. He gets more damned mileage out of those 4 strings than most of your modern djentmeisters get out of their sub-sonic nonsense. Honestly, go and stick on "It's So Easy" right now and listen to the bass throughout. Wonderful stuff.
 
 Of course, we've all heard cover bands murder a 9 minute version of "Paradise City", we've all got a little tired of hearing "Welcome to the Jungle" on US cop shows, we've perhaps even decided we don't need to hear "Sweet Child O' Mine", "Nightrain" or "Mr. Brownstone" even one more time, but stop. Listen to them properly. If you play, learn them. Now compare them to literally anything else in the genre. This is the best that this particular thing has ever been done.
 
@@ -69,4 +69,4 @@ Yet.
 
 ### [Mötley Crüe](http://www.motley.com/) - [Girls Girls Girls](https://www.amazon.co.uk/Girls-M%C3%B6tley-Cr%C3%BCe/dp/B005SN9S02/)
 
-Meanwhile… *le sigh*.
+![Mötley Crüe – Girls Girls Girls](/public/images/2025/02/ggg-jfc.jpg){.aoty .aoty-mention .aoty-turkey} Meanwhile… *le sigh*.
